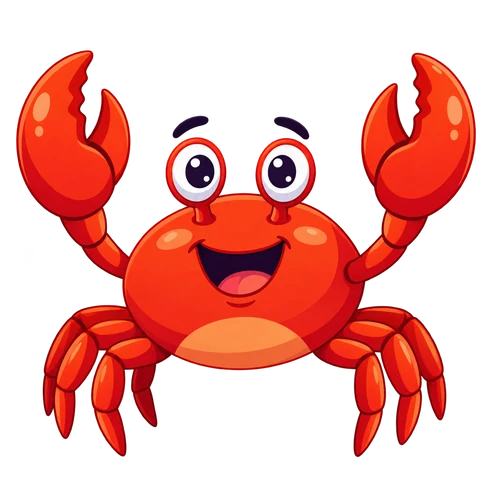
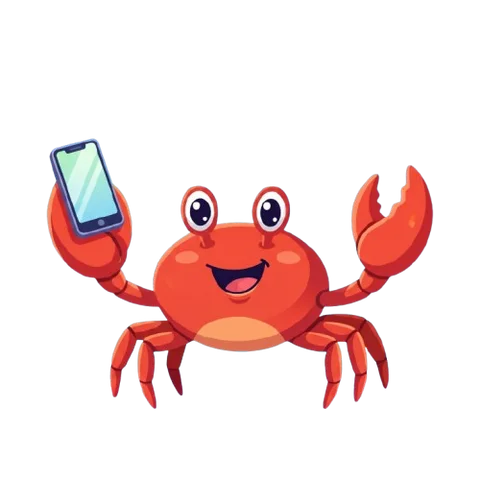
feat(ui): convite para entrar, Como funciona, navbar no celular e identidade visual
- Home: cartão para entrar com Google e botão 'Como funciona' com janela explicativa
- Fix: consulta pública de eventos sem orderBy (in + orderBy exige índice composto no Firestore real; o emulador não cobra); ordena no navegador
- Navbar com logo e botões centralizados no celular
- Favicon e apple-touch-icon do GDG (mini logo); remove os ícones do Vite
- Crabuntu novo (webp regerado de refs/)
- Perfil: remove a mensagem sobre enviar o UID à organização

diff --git a/src/components/ComoFunciona.tsx b/src/components/ComoFunciona.tsx
@@ -1,0 +1,85 @@
+import { useRef } from 'react'
+
+const PASSOS = [
+  {
+    titulo: 'Veja o que falta',
+    texto: 'Abra o evento e veja a lista do coffee break, por categoria. A barra de cada item mostra quanto já foi escolhido.',
+  },
+  {
+    titulo: 'Entre com o Google',
+    texto: 'Para contribuir você entra com a sua conta Google. Só precisa disso na hora de escolher; para olhar a lista não precisa.',
+  },
+  {
+    titulo: 'Escolha o que você leva',
+    texto: 'Toque em “Quero levar”, escolha a quantidade e, quando houver, o sabor ou a marca. Se a meta do item já foi atingida, ele aparece como esgotado.',
+  },
+  {
+    titulo: 'Mudou de ideia? Sem problema',
+    texto: 'Você pode editar ou cancelar a sua parte em “Minhas contribuições”. Depois do prazo só dá para reduzir ou cancelar, para a organização conseguir se planejar.',
+  },
+  {
+    titulo: 'No dia do evento',
+    texto: 'Leve exatamente o que você escolheu. Itens marcados com “devolver no final” (garrafa térmica, faca…) voltam para você.',
+  },
+]
+
+export function ComoFunciona() {
+  const ref = useRef<HTMLDialogElement>(null)
+
+  return (
+    <>
+      <button
+        type="button"
+        onClick={() => ref.current?.showModal()}
+        className="inline-flex items-center gap-1.5 rounded-full border border-gdg-blue px-3 py-1 text-sm font-medium text-gdg-blue transition hover:bg-gdg-blue/10"
+      >
+        <span aria-hidden="true">ⓘ</span> Como funciona
+      </button>
+
+      <dialog
+        ref={ref}
+        onClick={(e) => e.target === ref.current && ref.current?.close()}
+        aria-labelledby="como-funciona-titulo"
+        className="m-auto w-[calc(100%-2rem)] max-w-md rounded-card border border-line bg-white p-0 text-ink shadow-xl backdrop:bg-ink/40"
+      >
+        <div className="max-h-[85dvh] space-y-4 overflow-y-auto p-5">
+          <header className="flex items-start justify-between gap-3">
+            <h2 id="como-funciona-titulo" className="text-lg font-medium">
+              Como funciona o Lanche Coletivo
+            </h2>
+            <button type="button" onClick={() => ref.current?.close()} aria-label="Fechar" className="btn-ghost !min-h-9 !px-3">
+              ✕
+            </button>
+          </header>
+
+          <p className="text-sm text-muted">
+            O coffee break dos eventos do GDG Aracaju é feito por todo mundo. Em poucos passos você escolhe o que leva:
+          </p>
+
+          <ol className="space-y-3">
+            {PASSOS.map((p, i) => (
+              <li key={p.titulo} className="flex gap-3">
+                <span className="flex h-7 w-7 shrink-0 items-center justify-center rounded-full bg-gdg-blue text-sm font-medium text-white">
+                  {i + 1}
+                </span>
+                <div>
+                  <p className="font-medium">{p.titulo}</p>
+                  <p className="text-sm text-muted">{p.texto}</p>
+                </div>
+              </li>
+            ))}
+          </ol>
+
+          <p className="rounded-xl bg-surface p-3 text-sm text-muted">
+            <strong className="text-ink">Privacidade:</strong> aparece para todos só o seu primeiro nome. O e-mail fica
+            visível apenas para a organização e é usado só para este evento.
+          </p>
+
+          <button type="button" className="btn-primary w-full" onClick={() => ref.current?.close()}>
+            Entendi
+          </button>
+        </div>
+      </dialog>
+    </>
+  )
+}

diff --git a/src/pages/Home.tsx b/src/pages/Home.tsx
@@ -1,9 +1,13 @@
 import { Link } from 'react-router'
+import { ComoFunciona } from '@/components/ComoFunciona'
+import { useAuth } from '@/hooks/useAuth'
 import { useAgora, useEventos } from '@/hooks/useFirestore'
+import { isInAppBrowser } from '@/lib/inAppBrowser'
 import { rotuloFase } from '@/lib/fase'
 import { formatDataHora } from '@/lib/format'
 
 export function Home() {
+  const { user, loading: authLoading, signIn } = useAuth()
   const { data: eventos, loading, error } = useEventos()
   const agora = useAgora()
 
@@ -11,10 +15,23 @@ export function Home() {
     <div className="space-y-4">
       <div>
         <h1 className="text-2xl font-medium">Lanche Coletivo</h1>
-        <p className="text-muted">
+        <p className="mb-3 text-muted">
           Coffee break feito por todo mundo: escolha o que você leva e acompanhe o que ainda falta.
         </p>
+        <ComoFunciona />
       </div>
+
+      {!authLoading && !user && !isInAppBrowser() && (
+        <div className="card flex flex-wrap items-center gap-3 border-gdg-blue">
+          <p className="min-w-0 flex-1 text-sm">
+            <strong>Para escolher o que levar, entre com a sua conta Google.</strong> Você só precisa entrar na hora de
+            contribuir; para ver os eventos não precisa.
+          </p>
+          <button type="button" className="btn-primary" onClick={() => void signIn()}>
+            Entrar com Google
+          </button>
+        </div>
+      )}
 
       {loading && <p className="text-muted">Carregando eventos…</p>}
       {error && (

diff --git a/src/components/Layout.tsx b/src/components/Layout.tsx
@@ -35,12 +35,12 @@ export function Layout() {
   return (
     <div className="min-h-dvh">
       <header className="sticky top-0 z-10 border-b border-line bg-white/90 backdrop-blur">
-        <div className="mx-auto flex max-w-3xl flex-wrap items-center justify-between gap-x-3 gap-y-1 px-4 py-2 sm:py-3">
+        <div className="mx-auto flex max-w-3xl flex-col items-center gap-2 px-4 py-3 sm:flex-row sm:justify-between sm:gap-x-3">
           <Link to="/" className="flex min-w-0 items-center gap-3 font-medium" aria-label="Lanche Coletivo — GDG Aracaju">
-            <img src={gdgLogo} alt="Google Developer Groups" className="h-6 w-auto shrink-0 sm:h-8" />
+            <img src={gdgLogo} alt="Google Developer Groups" className="h-7 w-auto shrink-0 sm:h-8" />
             <span className="hidden truncate border-l border-line pl-3 sm:inline">Lanche Coletivo</span>
           </Link>
-          <nav className="ml-auto flex items-center gap-2 text-sm">
+          <nav className="flex flex-wrap items-center justify-center gap-2 text-sm">
             {isAdmin && (
               <Link to="/admin" className="btn-ghost">
                 Admin

diff --git a/src/hooks/useFirestore.ts b/src/hooks/useFirestore.ts
@@ -58,11 +58,13 @@ export function useEventos(): Live<Evento[]> {
         ? null
         : isAdmin
           ? query(collection(db, 'events'), orderBy('inicio', 'desc'))
-          : query(collection(db, 'events'), where('status', 'in', ['aberto', 'fechado']), orderBy('inicio', 'desc')),
+          : // sem orderBy: `in` + orderBy exigiria índice composto (o emulador não cobra, o Firestore real sim)
+            query(collection(db, 'events'), where('status', 'in', ['aberto', 'fechado'])),
     eventoDe,
     `eventos:${loading}:${isAdmin}`,
   )
-  return loading ? { ...live, loading: true } : live
+  const ordenados = useMemo(() => [...live.data].sort((a, b) => b.inicio.getTime() - a.inicio.getTime()), [live.data])
+  return { ...live, data: ordenados, loading: loading || live.loading }
 }
 
 export function useEvento(id: string | undefined): Live<Evento | null> {

diff --git a/index.html b/index.html
@@ -2,7 +2,8 @@
 <html lang="pt-BR">
   <head>
     <meta charset="UTF-8" />
-    <link rel="icon" type="image/svg+xml" href="/favicon.svg" />
+    <link rel="icon" type="image/png" href="/favicon.png" />
+    <link rel="apple-touch-icon" href="/apple-touch-icon.png" />
     <meta name="viewport" content="width=device-width, initial-scale=1.0" />
     <meta name="theme-color" content="#4285F4" />
     <meta name="description" content="Lanche coletivo dos eventos do GDG Aracaju: escolha o que levar." />

diff --git a/src/pages/Profile.tsx b/src/pages/Profile.tsx
@@ -23,7 +23,7 @@ export function Profile() {
       <h1 className="text-xl font-medium">Meu perfil</h1>
       <p className="text-sm">{user.displayName}</p>
       <div>
-        <p className="text-sm text-muted">Seu UID (envie à organização para virar admin):</p>
+        <p className="text-sm text-muted">Seu UID:</p>
         <code className="block break-all rounded-xl bg-surface p-3 text-sm">{user.uid}</code>
       </div>
       <button type="button" className="btn-primary" onClick={copiar}>
